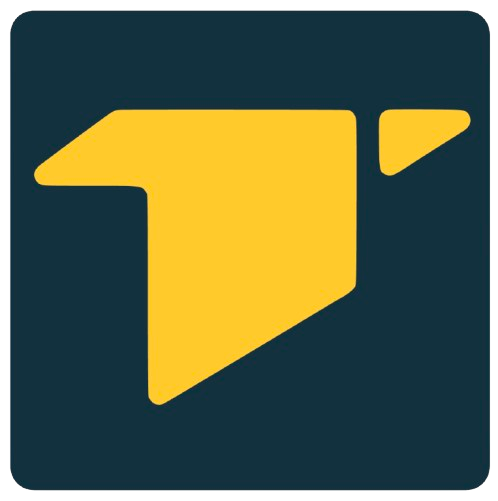
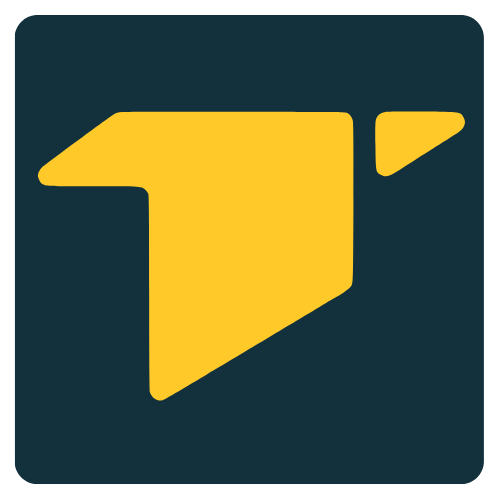
feat: update branding assets, improve responsive header/footer, and configure pnpm build dependencies

diff --git a/index.html b/index.html
@@ -12,33 +12,21 @@
     <link rel="preconnect" href="https://fonts.googleapis.com">
     <link rel="preconnect" href="https://fonts.gstatic.com" crossorigin>
     <link href="https://fonts.googleapis.com/css2?family=Roboto+Slab:wght@400;500;600;700&family=Inter:wght@300;400;500;600;700&display=swap" rel="stylesheet">
-    <link rel="icon" type="image/png" href="/turbotrade.png" />
+    <link rel="icon" type="image/png" href="/favicon-48x48.png" />
+    <link rel="apple-touch-icon" href="/apple-touch-icon.png" />
     <meta name="description" content="Build wealth the smarter way with our expert-built algo trading platform. Automated investing for retail investors seeking financial freedom." />
     <meta name="author" content="TurboTrade.ai" />
-    <link rel='icon' type='image/svg+xml' href='/turbotrade.png' />
 
     <meta property="og:title" content="TurboTrade.ai" />
-    <meta
-      property="og:description"
-      content="Build wealth the smarter way with our expert-built algo trading platform. Automated investing for retail investors seeking financial freedom."
-    />
     <meta property="og:description" content="Build wealth the smarter way with our expert-built algo trading platform. Automated investing for retail investors seeking financial freedom." />
     <meta property="og:type" content="website" />
-    <meta property="og:image" content="/turbotrade.png" />
-    <meta property="og:image" content="/turbotrade.png" />
+    <meta property="og:image" content="/turbotrade-dark.png" />
 
     <meta name="twitter:card" content="summary_large_image" />
     <meta name="twitter:site" content="@TurboTradeAi" />
     <meta name="twitter:title" content="TurboTrade.ai" />
-    <meta
-      name="twitter:description"
-      content="Build wealth the smarter way with our expert-built algo trading platform. Automated investing for retail investors seeking financial freedom."
-    />
-    <meta name="twitter:image" content="/turbotrade.png" />
-    <meta name="twitter:site" content="@TurboTradeAi" />
-    <meta name="twitter:title" content="TurboTrade.ai" />
     <meta name="twitter:description" content="Build wealth the smarter way with our expert-built algo trading platform. Automated investing for retail investors seeking financial freedom." />
-    <meta name="twitter:image" content="/turbotrade.png" />
+    <meta name="twitter:image" content="/turbotrade-dark.png" />
   </head>
 
 <body>

diff --git a/src/components/Header.tsx b/src/components/Header.tsx
@@ -2,7 +2,8 @@ import { useState, useEffect } from "react";
 import { Button } from "@/components/ui/button";
 import { Link } from "react-router-dom";
 import { AccessibilityToolbar } from "@/components/site/AccessibilityToolbar";
-import turbotrade from "/turbotrade.png";
+import logoLight from "@/assets/logo-light.png";
+import logoDark from "@/assets/logo-dark.png";
 
 const Header = () => {
   const [scrolled, setScrolled] = useState(false);
@@ -27,9 +28,10 @@ const Header = () => {
           scrolled ? "bg-background/95 backdrop-blur-md shadow-sm" : "bg-transparent"
         }`}
       >
-        <div className="container mx-auto max-w-7xl flex items-center justify-between h-16 px-4 sm:px-6 lg:px-8">
+        <div className="container mx-auto max-w-7xl flex items-center justify-between h-20 px-4 sm:px-6 lg:px-8">
           <Link to="/" className="flex items-center gap-3">
-            <img src={turbotrade} alt="TurboTrade" className="h-11" />
+            <img src={logoLight} alt="TurboTrade" className="h-12 md:h-14 w-auto dark:hidden object-contain" />
+            <img src={logoDark} alt="TurboTrade" className="h-12 md:h-14 w-auto hidden dark:block object-contain" />
           </Link>
 
           <div className="hidden md:flex items-center gap-3">

diff --git a/src/components/Footer.tsx b/src/components/Footer.tsx
@@ -1,6 +1,7 @@
 import { TrendingUp, Mail, FileText, Shield, ScrollText, RotateCcw, Linkedin, Twitter, Facebook, Users } from "lucide-react";
 import { Link } from "react-router-dom";
-import turbotrade from "/turbotrade.png";
+import logoLight from "@/assets/logo-light.png";
+import logoDark from "@/assets/logo-dark.png";
 
 const Footer = () => {
     const currentYear = new Date().getFullYear();
@@ -12,7 +13,8 @@ const Footer = () => {
                     <div className="flex flex-col gap-4">
                         <div className=" text-center md:text-left">
                             <a href="#" className="flex items-center gap-3">
-                                <img src={turbotrade} alt="TurboTrade" className="h-11" />
+                                <img src={logoLight} alt="TurboTrade" className="h-12 md:h-14 w-auto dark:hidden object-contain" />
+                                <img src={logoDark} alt="TurboTrade" className="h-12 md:h-14 w-auto hidden dark:block object-contain" />
                             </a>
                             <p className="text-muted-foreground text-sm max-w-md mx-auto md:mx-0">
                                 Precision-engineered algo execution for systematic traders.

diff --git a/src/components/Hero.tsx b/src/components/Hero.tsx
@@ -1,7 +1,7 @@
 import { Button } from "@/components/ui/button";
 import { ArrowRight, ArrowUp } from "lucide-react";
 import { Link } from "react-router-dom";
-import turbotradeIcon from "/turbotrade.png";
+import turbotradeIcon from "@/assets/logo-mark-dark.png";
 import { useEffect, useState } from "react";
 
 const Hero = () => {
